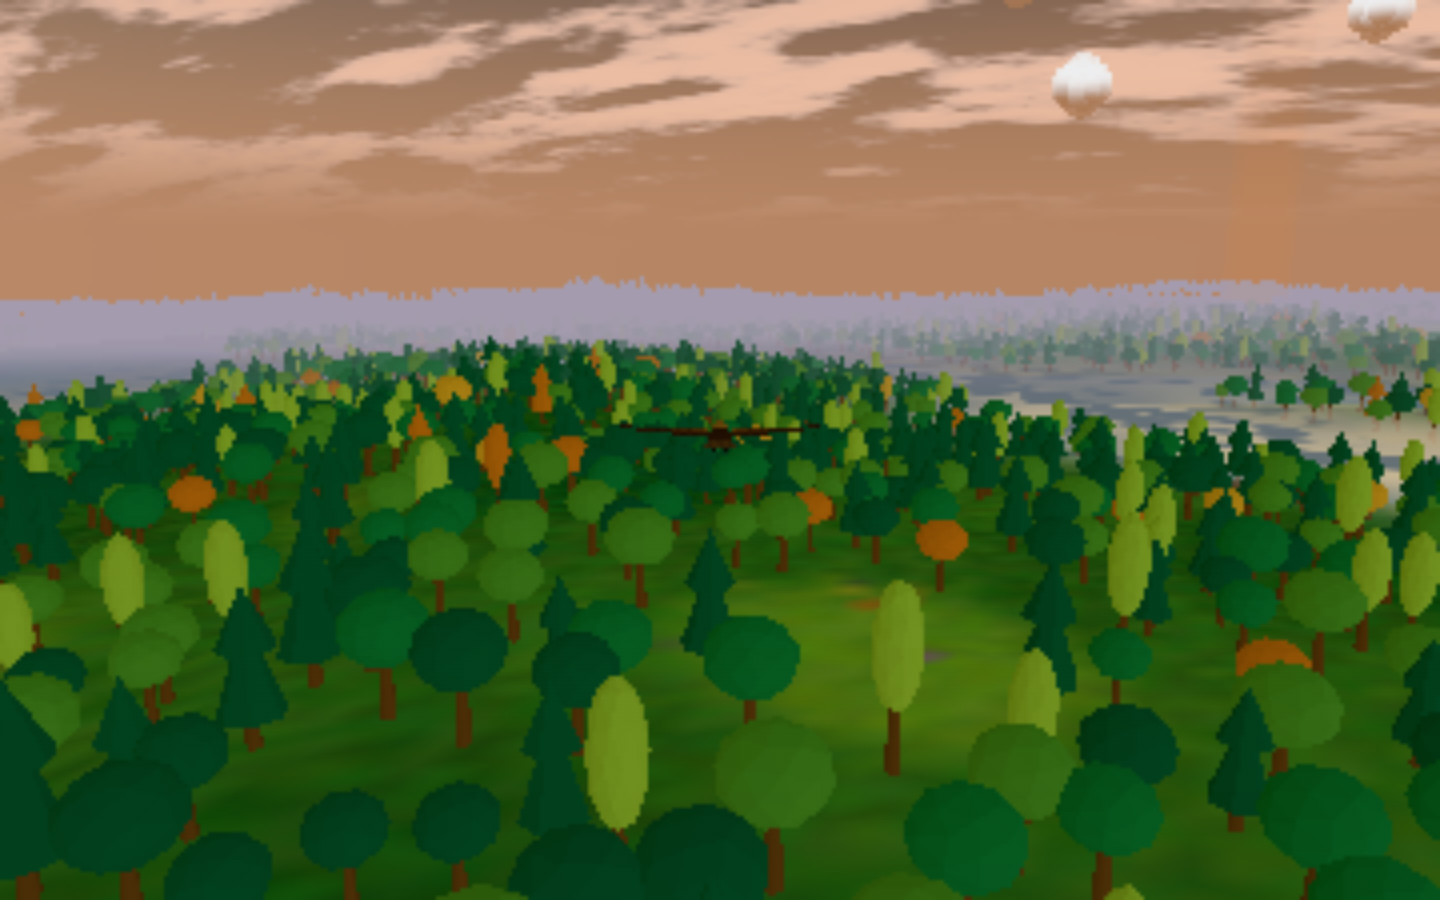
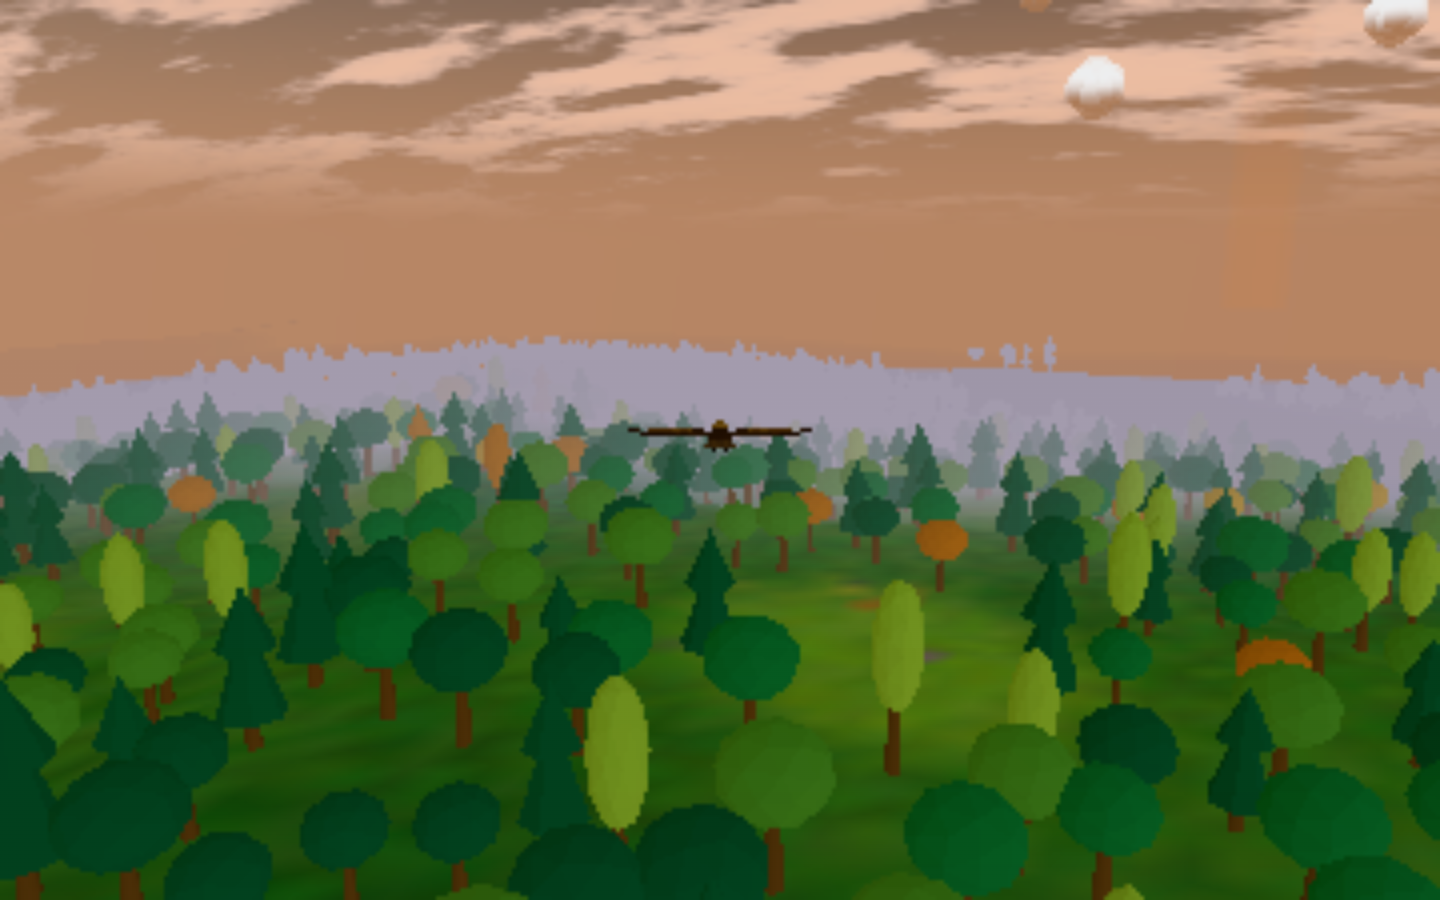
Capture morning mist at the smoke visibility so CI can finish streaming

diff --git a/tests/cloud-sea.smoke.ts b/tests/cloud-sea.smoke.ts
@@ -10,7 +10,7 @@ const PHASES = [
 ] as const;
 
 test('morning mist lies over a lake and is absent over dry ground', async ({ page }, testInfo) => {
-  test.setTimeout(300_000);
+  test.setTimeout(420_000);
   const errors: string[] = [];
   page.on('pageerror', (error) => errors.push(error.message));
   page.on('console', (message) => { if (message.type() === 'error') errors.push(message.text()); });
@@ -50,7 +50,7 @@ test('morning mist lies over a lake and is absent over dry ground', async ({ pag
   ]) {
     await page.evaluate((pose) => {
       window.__SOARING__.reviewFlight!({ x: pose.x, z: pose.z, heading: 0.4 });
-      window.__SOARING__.setVisibility(1800);
+      window.__SOARING__.setVisibility(720);
       document.querySelector('#intro')?.classList.add('hidden');
       document.querySelector<HTMLElement>('#controls')!.style.visibility = 'hidden';
     }, place);
